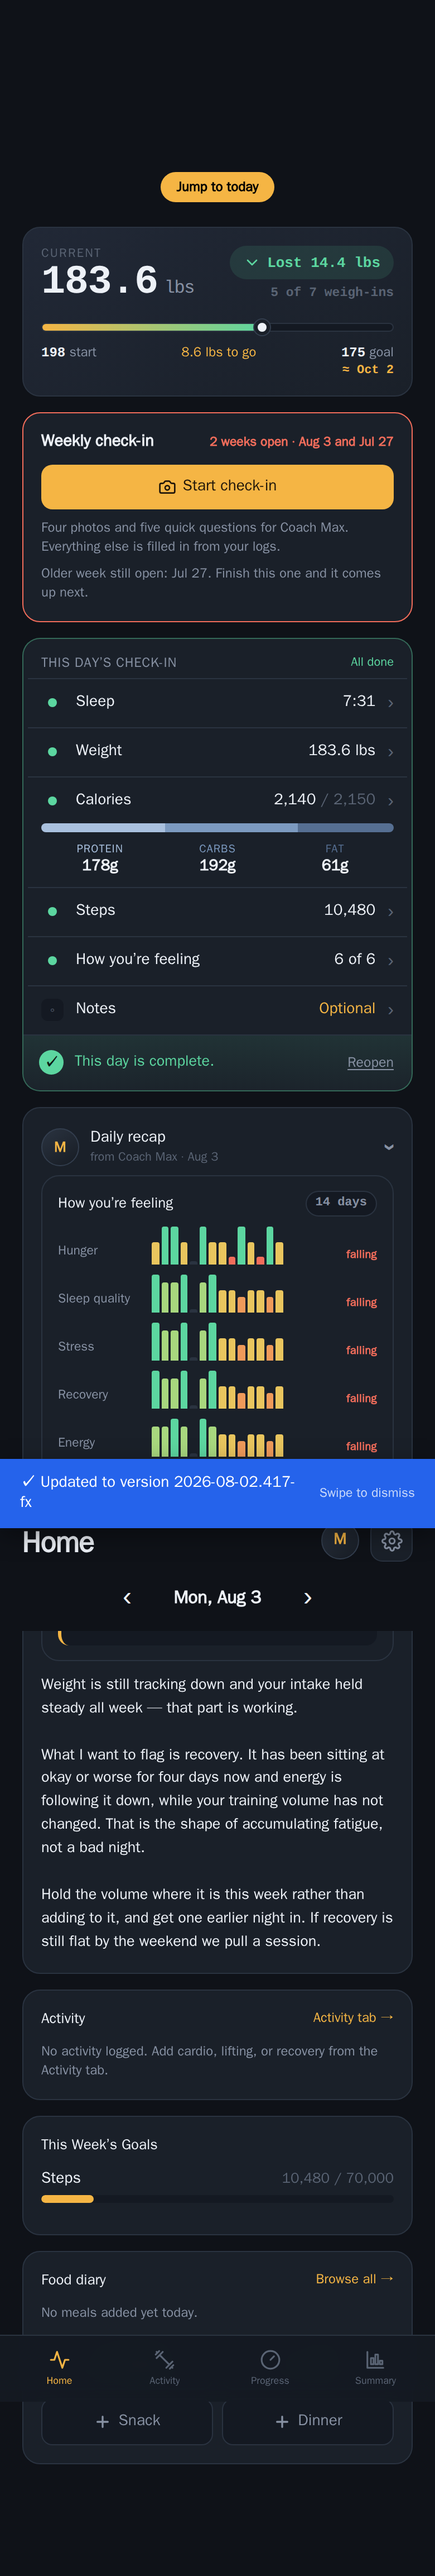
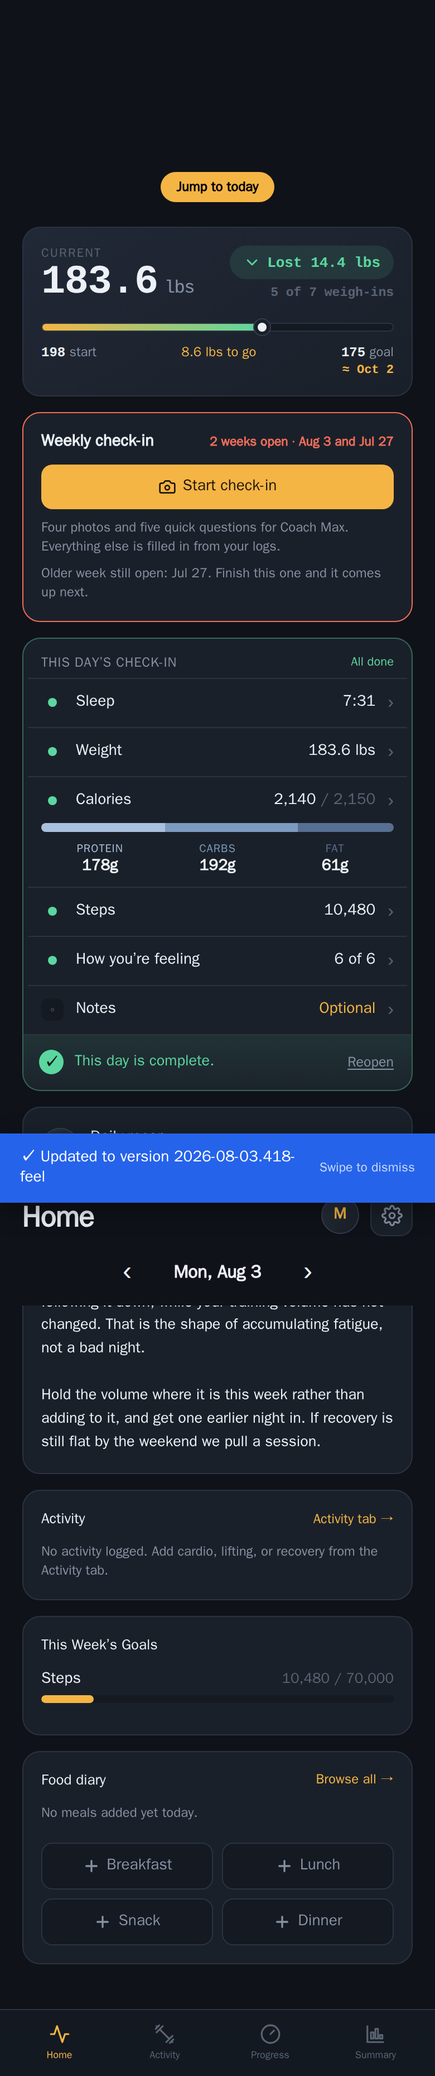
Recap: drop the rating chart, keep the data flowing to the coach
Owner, 2026-08-03: 'Dont include the charts in the daily recap. That's too
much. Coach can have the data and comment, but no need to display it.'

The recap renders the coach's own text only. The ratings still sync in the
record, so the coach reads them and comments in his own words. The charts
remain on the Progress tab and in the weekly check-in form, where they are
asked for rather than pushed. C20 T11 now asserts the recap carries no
chart, no bars and no Watch block while the payload still carries the data.

C20 28/28.

Claude-Session: https://claude.ai/code/session_013vTJLyt3fzzCxkgRaB7ajH

diff --git a/tests/browser/c20-feelings-checkin.browser.test.js b/tests/browser/c20-feelings-checkin.browser.test.js
@@ -196,7 +196,9 @@ const notOk=(v,m)=>{if(v)throw new Error(m||'expected falsy');};
     ok(t10.cells.every(c=>c.na?c.t==='–':/^[1-5]$/.test(c.t)),'cells were '+JSON.stringify(t10.cells));
   });
 
-  /* ---- T11: the coach report leads with the trend block ----------------- */
+  /* ---- T11: the recap carries NO chart, but the coach still gets the data
+       (Owner, 2026-08-03: "Coach can have the data and comment, but no need
+       to display it") ---------------------------------------------------- */
   const t11=await ev(()=>{
     const d=parseISO(todayISO());state.ratings={};
     for(let i=13;i>=0;i--){const x=new Date(d);x.setDate(x.getDate()-i);
@@ -205,20 +207,23 @@ const notOk=(v,m)=>{if(v)throw new Error(m||'expected falsy');};
     state.nightlyLog={};state.nightlyLog[todayISO()]={text:'Solid week.',generated:1,mood:null};
     state.nightOpen=true;save();state.view='overview';render();
     const body=document.querySelector('.wl-ai-summary');
-    const first=body?body.firstElementChild:null;
-    return {has:!!body,firstIsTrend:!!(first&&/How you’re feeling/.test(first.textContent)),
+    const p=payload();
+    return {has:!!body,
       rows:body?body.querySelectorAll('.wl-frow').length:0,
-      bars:body?body.querySelectorAll('.wl-frow .wl-fbars i').length:0,
-      watch:body?(body.querySelector('.wl-fwatch')||{}).textContent||'':'',
-      tags:body?[].slice.call(body.querySelectorAll('.wl-ftag')).map(t=>t.textContent):[]};
+      bars:body?body.querySelectorAll('.wl-fbars i').length:0,
+      watch:body?body.querySelectorAll('.wl-fwatch').length:0,
+      text:body?body.textContent:'',
+      inPayload:!!(p.ratings&&Object.keys(p.ratings).length===14),
+      sample:p.ratings?p.ratings[toISO(d)]:null};
   });
-  test('T11 the recap opens with the 14-day trend block, above the coach’s text',()=>{
+  test('T11 the daily recap shows no rating chart, while the coach still receives the data',()=>{
     ok(t11.has,'no recap body rendered');
-    ok(t11.firstIsTrend,'the trend block must be the first thing in the recap');
-    eq(t11.rows,6);
-    eq(t11.bars,6*14,'six rows of fourteen day-bars');
-    ok(/recovery/i.test(t11.watch),'watch line should name the falling rating; got: '+t11.watch);
-    ok(t11.tags.indexOf('falling')>=0,'recovery dropped from good to poor; tags were '+JSON.stringify(t11.tags));
+    eq(t11.rows,0,'no trend rows may appear in the recap');
+    eq(t11.bars,0,'no colour bars may appear in the recap');
+    eq(t11.watch,0,'no Watch block may appear in the recap');
+    ok(/Solid week\./.test(t11.text),'the coach’s own text must still render');
+    ok(t11.inPayload,'the ratings must still reach the coach in the synced record');
+    eq(t11.sample.recovery,'poor');
   });
 
   /* ---- T12: unanswered days are grey, never scored as bad --------------- */

diff --git a/index.html b/index.html
@@ -2115,14 +2115,11 @@ function feelCardHTML(){
   h+=feelPhaseStripHTML();
   return h+'</div>';
 }
-/* Top of the fold in the coach recap: the trend leads, so the coach sees
-   accumulating fatigue before reading anything else. */
-function feelReportHTML(iso){
-  var isos=feelDays(14,iso);
-  if(!feelAnyAnswered(isos))return '';
-  return '<div class="wl-card" style="margin:0 0 12px;padding:13px 14px"><div class="wl-card-head" style="margin-bottom:2px"><span>How you’re feeling</span><span class="wl-count">14 days</span></div>'+
-    feelBarsHTML(iso,14)+feelWatchHTML(iso)+'</div>';
-}
+/* The daily recap deliberately does NOT render this trend (Owner, 2026-08-03:
+   "Coach can have the data and comment, but no need to display it"). The
+   ratings ride along in the synced record, so the coach reads them and writes
+   about them in his own words; the charts live on the Progress tab and in the
+   weekly check-in form, where they are asked for rather than pushed. */
 
 /* ============================================================================
    Weekly check-in — the athlete answers only what the app cannot know.
@@ -2469,7 +2466,7 @@ function view_overview(){
     var _nav='';/* recap arrows retired 2026-08-02: the header day nav navigates days, and the recap follows the viewed day */
     var _canRegen=SHOW_TESTBTN&&!state.nightBusy&&state.nightlySummary&&state.nightlySummary.date===_rcDate&&state.nightlySummary.text;
     var _regen=_canRegen?'<button class="wl-recaplink" data-act="night:gen" aria-label="Regenerate recap">↻ Regenerate</button>':'';
-    _recapCard='<div class="wl-card'+(_unrdThis?' wl-recap-new':'')+'"><div class="wl-recaphead"><button class="wl-collapse-head" style="flex:1;min-width:0" data-act="night:toggle">'+coachHeadHTML("Daily recap",fmtShort(parseISO(_rcDate)),_unrdThis,_no)+'</button>'+_regen+_nav+'</div>'+(_no?'<div class="wl-ai-summary" style="margin-top:6px">'+feelReportHTML(_rcDate)+maxMoodHTML(_rc.mood)+renderSummary(_rc.text)+'</div>':'')+'</div>';}
+    _recapCard='<div class="wl-card'+(_unrdThis?' wl-recap-new':'')+'"><div class="wl-recaphead"><button class="wl-collapse-head" style="flex:1;min-width:0" data-act="night:toggle">'+coachHeadHTML("Daily recap",fmtShort(parseISO(_rcDate)),_unrdThis,_no)+'</button>'+_regen+_nav+'</div>'+(_no?'<div class="wl-ai-summary" style="margin-top:6px">'+maxMoodHTML(_rc.mood)+renderSummary(_rc.text)+'</div>':'')+'</div>';}
   var _recapUnit=_recapCard+(SHOW_TESTBTN?completeBtnHTML(_sel):"");
   var _hsw=sortedWeights(),_hstart=num(state.settings.startingWeight),_hgoal=num(state.settings.goalWeight);
   var _hcur=_hsw.length?_hsw[_hsw.length-1].weight:_hstart;

diff --git a/features/daily-subjective-ratings/SPEC.md b/features/daily-subjective-ratings/SPEC.md
@@ -95,7 +95,19 @@ A "How you've felt" card on the **Progress** tab:
 - Below it, a **compound-phase strip**: every day since the current dose
   step, so a trend across a titration is visible rather than just the week.
 
-## Coach report — the trend block leads (Owner decision)
+## Coach report — data yes, chart no (Owner decision, superseded twice)
+
+**Final, 2026-08-03 (in force):** the daily recap displays NO rating chart.
+The Owner's words: *"Dont include the charts in the daily recap. That's too
+much. Coach can have the data and comment, but no need to display it."* The
+ratings sync to the server in the record, so the coach reads them and writes
+about them in his own prose. The charts live where they are asked for: the
+Progress tab and the weekly check-in form.
+
+The superseded version is kept below for the reasoning it records, but the
+recap block described in it was built and then removed the same day.
+
+### (superseded) Coach report — the trend block leads
 
 The trend goes at the TOP OF THE FOLD of the coach report, above training,
 nutrition and steps. Its purpose is explicit: let the coach see whether the
